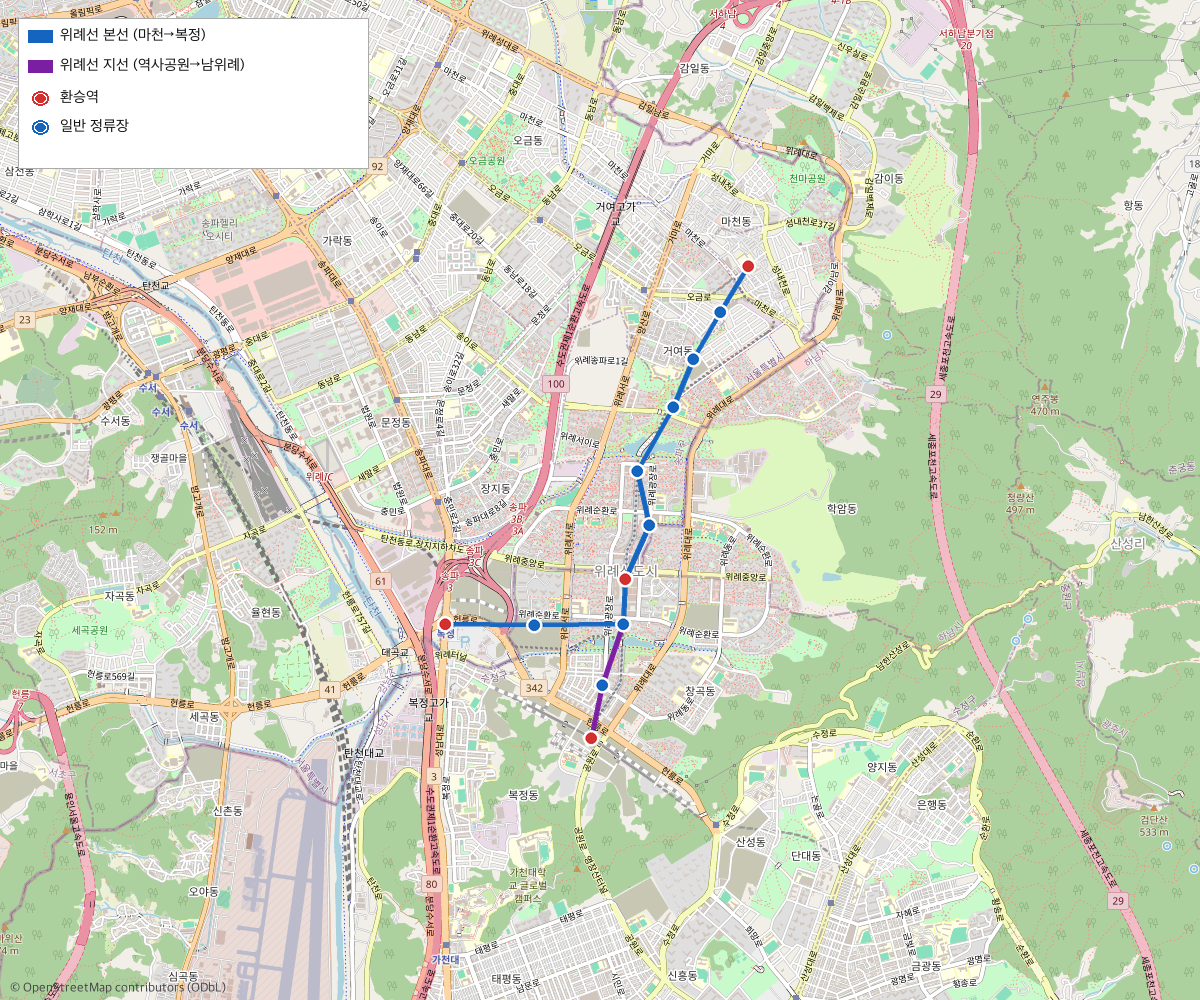
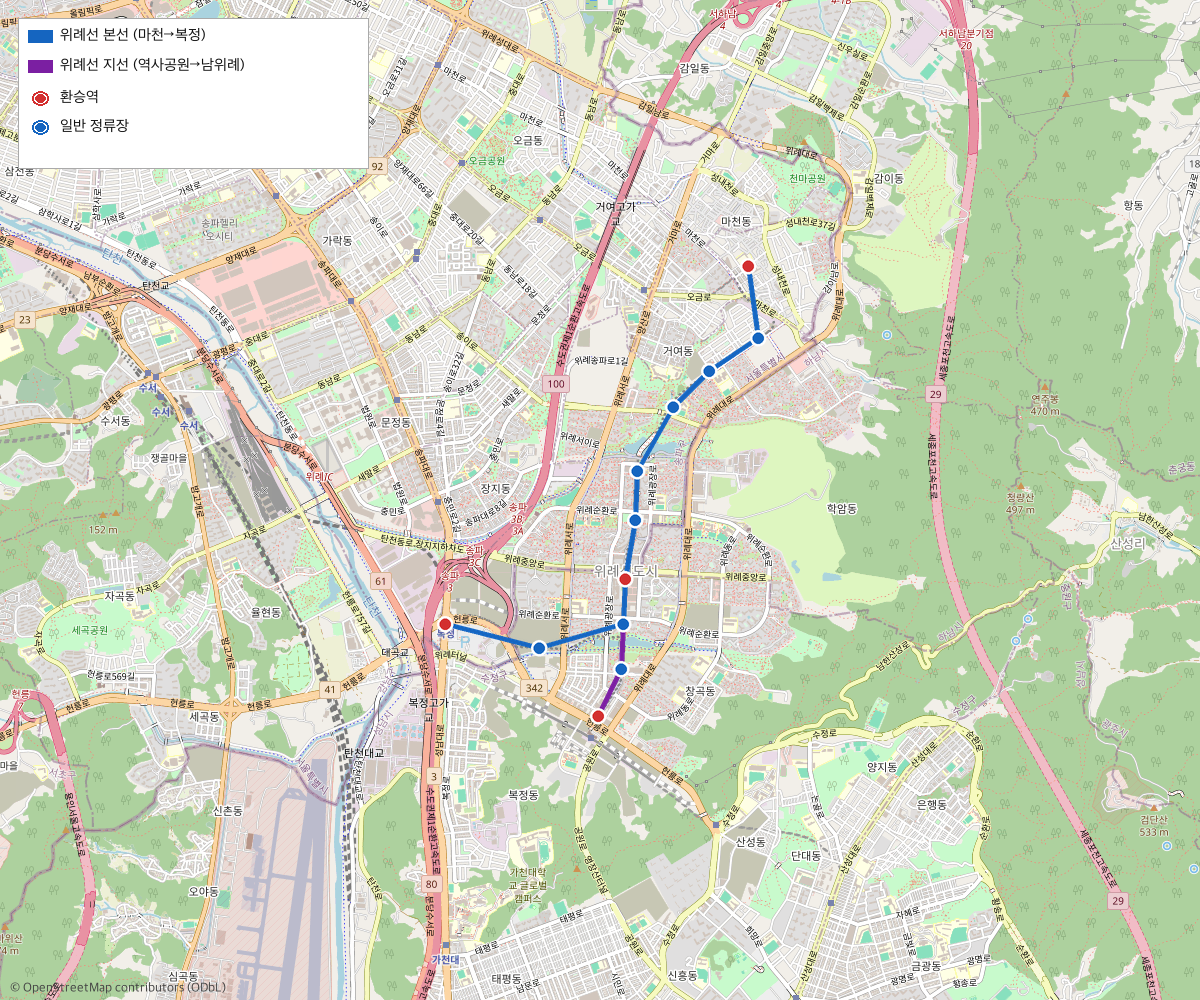
Fix all wirye tram stop coordinates using OSM tram stop nodes
OSM public_transport 노드(node ID 134370539xx~134370540xx)로
북위례·위례솔·위례별·위례트램스퀘어·남위례·위례스마트시티
좌표 전면 수정. 마천→북위례 구간이 남북 방향임을 반영.

Changed region(s): [[0.37, 0.62, 0.5242, 0.744], [0.555, 0.279, 0.6475, 0.403], [0.4933, 0.434, 0.555, 0.558]]

diff --git a/scripts/make_wirye_maps.py b/scripts/make_wirye_maps.py
@@ -27,19 +27,19 @@ def credit(img):
 # (lat,          lon,       이름,           환승)
 STOPS = [
   (37.494953, 127.152724, "마천",          "5호선"),        # OSM 확정
-  (37.491800, 127.150300, "북위례",        ""),             # 101→104 1/3 보간
-  (37.488600, 127.148000, "위례솔",        ""),             # 101→104 2/3 보간
+  (37.490033, 127.153542, "북위례",        ""),             # OSM tram stop 확정
+  (37.487768, 127.149364, "위례솔",        ""),             # OSM tram stop 확정
   (37.485322, 127.146259, "덕수고등학교",  ""),             # OSM 확정
   (37.480962, 127.143162, "위례호수공원",  ""),             # OSM 확정
-  (37.477300, 127.144200, "위례별",        ""),             # 105→107 중간 보간
+  (37.477615, 127.142963, "위례별",        ""),             # OSM tram stop 확정
   (37.473586, 127.142168, "위례중앙광장",  "(장래 위례신사선)"), # OSM 확정
   # ── 분기점 ──
   (37.470567, 127.141962, "위례역사공원",  "분기"),         # OSM 확정  ← 본선+지선 공유
   # 지선 (보라): 역사공원 → 남위례
-  (37.466400, 127.140200, "위례트램스퀘어",""),             # 108→110 보간
-  (37.462772, 127.139216, "남위례",        "8호선"),        # OSM 확정
+  (37.467522, 127.141772, "위례트램스퀘어",""),             # OSM tram stop 확정
+  (37.464275, 127.139839, "남위례",        "8호선"),        # OSM tram stop 확정
   # 본선 계속 (파랑): 역사공원 → 복정
-  (37.470500, 127.134300, "위례스마트시티",""),             # 108→112 보간
+  (37.468928, 127.134778, "위례스마트시티",""),             # OSM tram stop 확정
   (37.470577, 127.126713, "복정",          "8호선·수인분당선"), # OSM 확정
 ]
 
